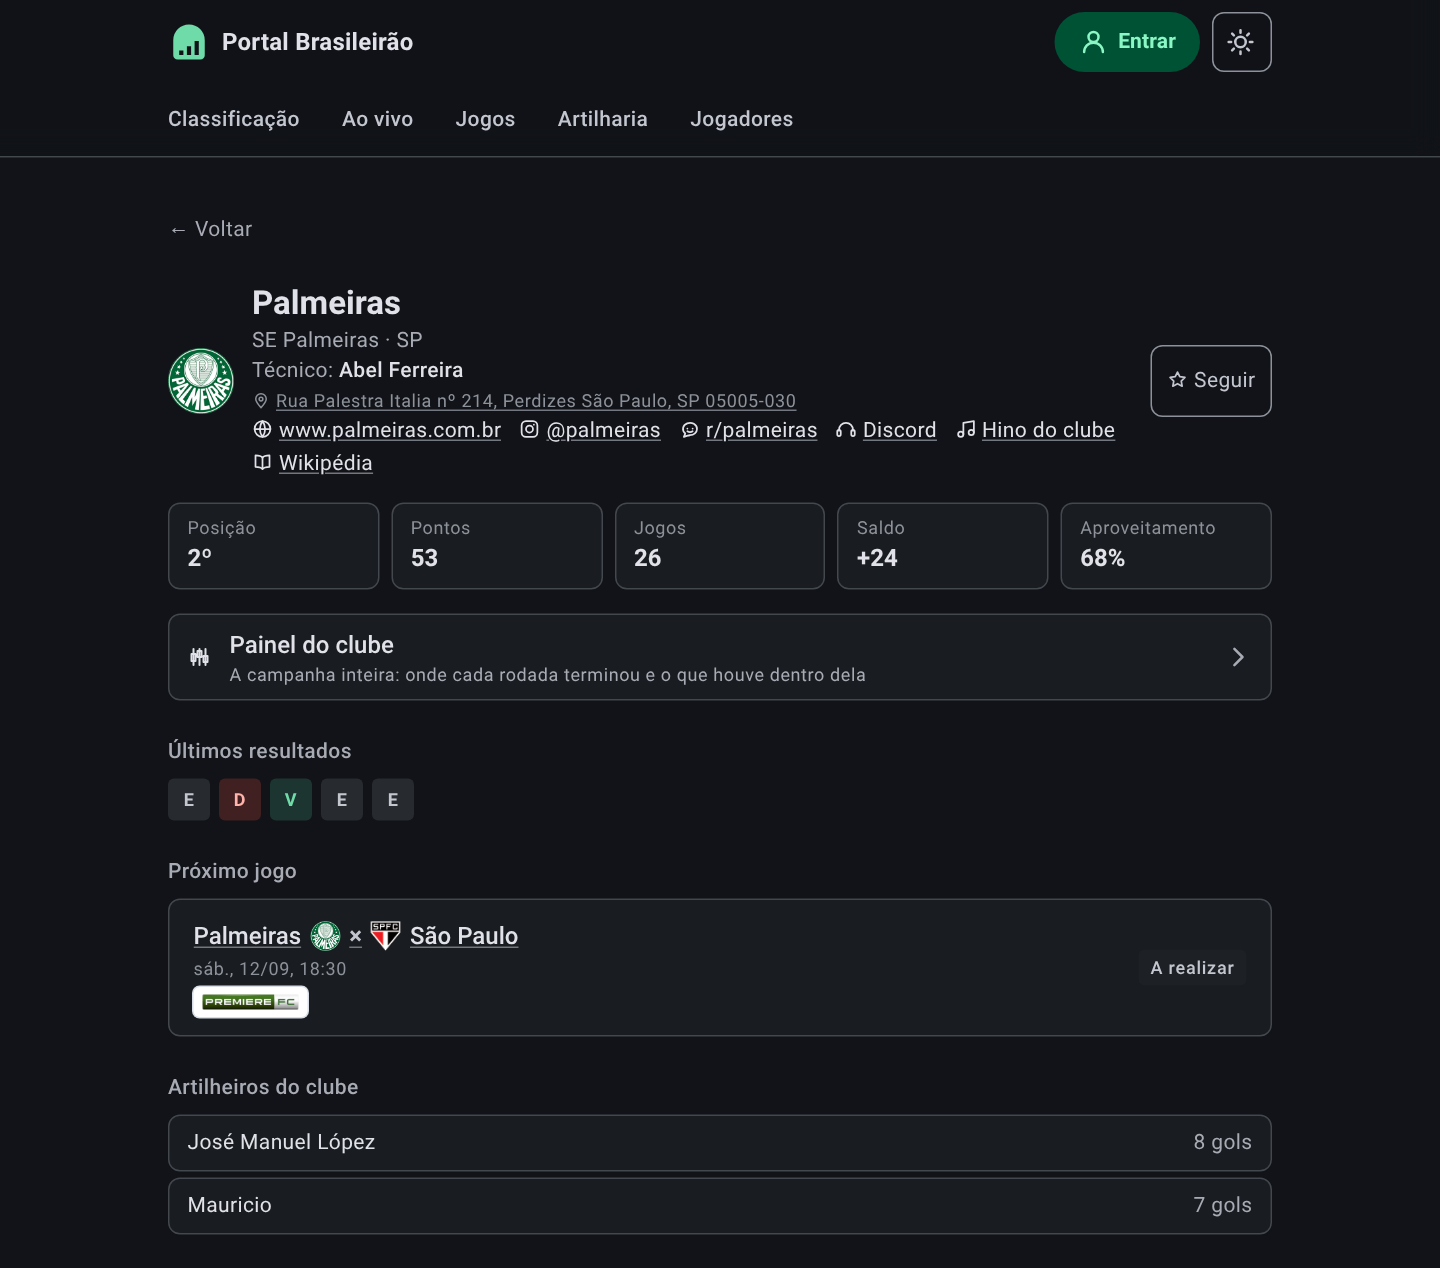
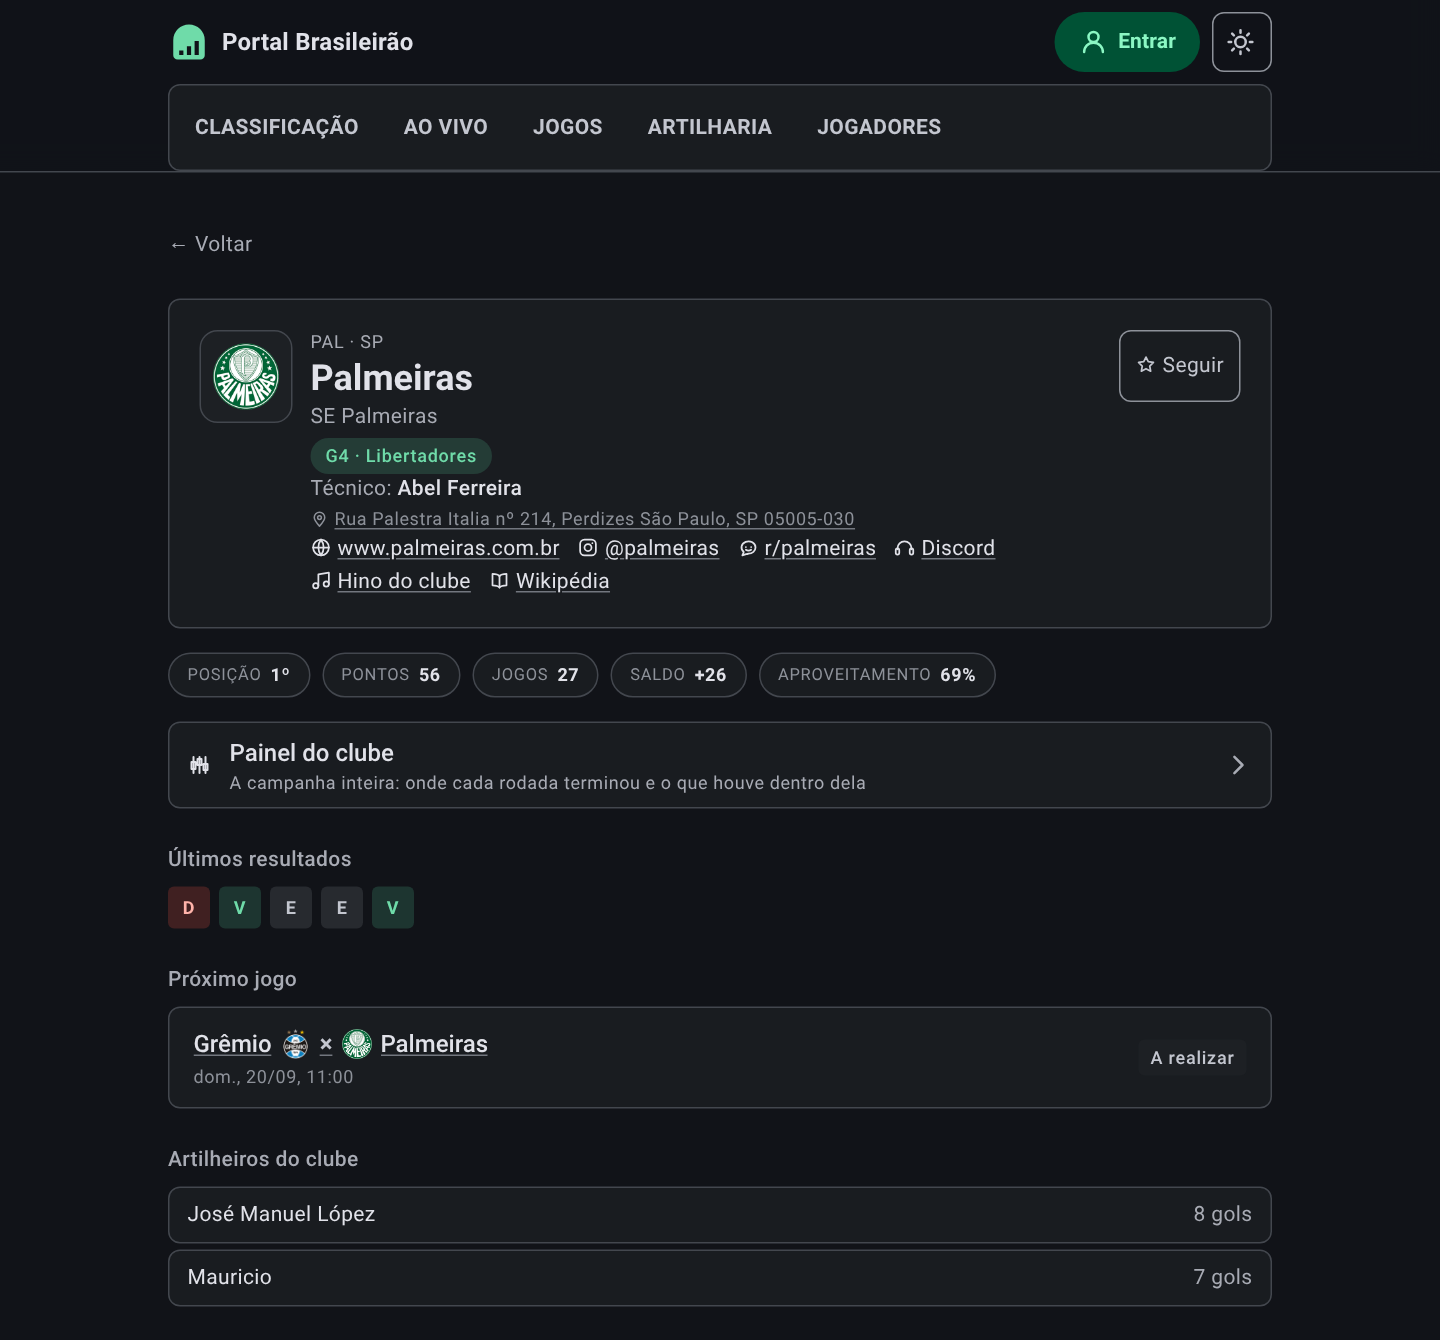
Re-shoot the two club screenshots #591 owed
clube-palmeiras-{light,dark} re-shot from production at 391e6e3, and
their README captions rewritten against the new frame: the crest sits
in a bordered tile inside a card, a caps "PAL · SP" line precedes the
name, a G4 · Libertadores pill follows the técnico line, and the five
season figures are pills below the card instead of a tile grid. The
crop grew 72px (845 -> 893 CSS px) from the taller card, and nothing
new crossed into the frame — it still ends at Artilheiros, with
Vídeos do clube, Acontecimentos and Jogos disputados below it, same
as before.

Also fixes a real capture failure hit along the way: settle() waited
for every <img> on the page to be `complete`, including ones far below
a cropped route's fixed viewport. Chromium's near-viewport prefetch
margin for loading="lazy" is computed from perceived connection speed,
which localhost and production answer differently — against production
four images ~4200px down (this club's last Jogos disputados row) never
loaded and the wait timed out at 30s every time, reproduced three runs
in a row. A local server at the pre-#591 header, at a near-identical
page height, loaded all 108 images with no scroll at all — so this is
a property of the network, not of the change. settle() now walks the
page once before checking completeness, which costs nothing where the
margin already covers the page and is the only fix that reaches the
pages it does not.

Deliberately does NOT bump docs/screenshots/CAPTURED (still bf5919b,
[…]

diff --git a/scripts/screenshot.ts b/scripts/screenshot.ts
@@ -455,6 +455,33 @@ const settle = async (page: Page) => {
       });
   }
 
+  /**
+   * Walk the page once, so a lazy `<img>` far below the crop has actually been
+   * asked to load before the wait below checks for it.
+   *
+   * A cropped route is photographed at a fixed viewport — never scrolled — so
+   * a lazy image's only chance to load is Chromium's own near-viewport margin,
+   * and that margin is not a page property: it is computed from the browser's
+   * *perceived connection speed*, which localhost and a real network answer
+   * differently. Measured on `/clube/palmeiras` (a leader's Jogos disputados
+   * runs to 27 rows): against `http://127.0.0.1` every one of 108 images
+   * completed with no scroll at all; against production, four images roughly
+   * 4200px down — two crests and two broadcaster marks in the season's last
+   * row — sat `complete: false` for 20 extra seconds and never resolved. Same
+   * page, same near-identical height (4379px against 4461px), two different
+   * verdicts, on a network property the script does not control and cannot
+   * read in advance. Scrolling costs nothing on the pages the margin already
+   * covers and is the only thing that reaches the pages it does not.
+   */
+  await page.evaluate(async () => {
+    const step = Math.max(1, window.innerHeight - 100);
+    for (let y = 0; y <= document.body.scrollHeight; y += step) {
+      window.scrollTo(0, y);
+      await new Promise((resolve) => requestAnimationFrame(resolve));
+    }
+    window.scrollTo(0, 0);
+  });
+
   // Every image actually decoded, rather than a fixed wait and a hope. Crests
   // and broadcaster marks are lazy, so this is the difference between a shot
   // with badges and a shot with holes.

diff --git a/README.md b/README.md
@@ -45,9 +45,9 @@ refetches on its own. There is deliberately no match minute: the provider report
 and a score and never an elapsed clock, so the page says **bola rolando** rather than
 guessing a number.*
 
-![Página do clube Palmeiras no tema claro: escudo, o técnico Abel Ferreira, o endereço da sede — com um alfinete, que abre o endereço no mapa —, site oficial, perfil no Instagram, o subreddit r/palmeiras, o Discord da torcida, hino do clube e artigo na Wikipédia; à direita, o botão Seguir, que marca o clube como o time do leitor; os números da temporada (2º lugar, 53 pontos, 26 jogos, saldo +24 e 68% de aproveitamento); logo abaixo, uma faixa Painel do clube, “A campanha inteira: onde cada rodada terminou e o que houve dentro dela”, que leva a essa página — a própria campanha não é desenhada aqui, mudou-se para o painel; os últimos cinco resultados, o próximo jogo — Palmeiras × São Paulo, com os dois escudos encostados ao × entre os nomes, sábado 12/09 às 18:30, marcado como A realizar e com a marca do Premiere —, e os artilheiros do clube, José Manuel López com 8 gols e Mauricio com 7, onde o recorte acaba. Os Vídeos do clube — cada vídeo na largura da coluna, do tamanho dos Melhores momentos da página de partida —, os Acontecimentos — o que houve fora de campo, com a paralisação para a Copa do Mundo — e os Jogos disputados ficam abaixo do recorte](docs/screenshots/clube-palmeiras-light.png)
+![Página do clube Palmeiras no tema claro: um cartão reúne o escudo numa moldura, a legenda “PAL · SP” em versalete, o nome Palmeiras em destaque, o nome “SE Palmeiras” logo abaixo, uma etiqueta verde “G4 · Libertadores”, o técnico Abel Ferreira, o endereço da sede — com um alfinete, que abre o endereço no mapa —, e a fila de links: site oficial, perfil no Instagram, o subreddit r/palmeiras, o Discord da torcida, hino do clube e artigo na Wikipédia; à direita do cartão, o botão Seguir, que marca o clube como o time do leitor. Abaixo do cartão, os números da temporada em cápsulas soltas — Posição 1º, Pontos 56, Jogos 27, Saldo +26, Aproveitamento 69% —; logo abaixo, uma faixa Painel do clube, “A campanha inteira: onde cada rodada terminou e o que houve dentro dela”, que leva a essa página — a própria campanha não é desenhada aqui, mudou-se para o painel; os últimos cinco resultados, o próximo jogo — Grêmio × Palmeiras, com os dois escudos encostados ao × entre os nomes, domingo 20/09 às 11:00, marcado como A realizar e sem marca de emissora nesta partida —, e os artilheiros do clube, José Manuel López com 8 gols e Mauricio com 7, onde o recorte acaba. Os Vídeos do clube — cada vídeo na largura da coluna, do tamanho dos Melhores momentos da página de partida —, os Acontecimentos — o que houve fora de campo, com a paralisação para a Copa do Mundo — e os Jogos disputados ficam abaixo do recorte](docs/screenshots/clube-palmeiras-light.png)
 
-![A mesma página do clube Palmeiras no tema escuro: os mesmos escudo, técnico, endereço da sede com o seu alfinete, a mesma fila de links, o mesmo botão Seguir e os mesmos números da temporada; a mesma faixa do Painel do clube, igualmente sem gráfico da campanha acima dela; os mesmos últimos resultados, o mesmo próximo jogo e os mesmos artilheiros, com o recorte acabando no mesmo lugar, acima dos Vídeos do clube; o mesmo subreddit e o mesmo Discord na fila de links](docs/screenshots/clube-palmeiras-dark.png)
+![A mesma página do clube Palmeiras no tema escuro: o mesmo cartão com o escudo emoldurado, a legenda “PAL · SP”, o nome, a etiqueta “G4 · Libertadores”, o técnico, o endereço da sede com o seu alfinete, a mesma fila de links e o mesmo botão Seguir; as mesmas cápsulas de Posição, Pontos, Jogos, Saldo e Aproveitamento abaixo do cartão; a mesma faixa do Painel do clube, igualmente sem gráfico da campanha acima dela; os mesmos últimos resultados, o mesmo próximo jogo e os mesmos artilheiros, com o recorte acabando no mesmo lugar, acima dos Vídeos do clube; o mesmo subreddit e o mesmo Discord na fila de links](docs/screenshots/clube-palmeiras-dark.png)
 
 ![Página de jogos no tema claro: o seletor de rodada na 27ª — a rodada mais antiga que ainda tem jogo por disputar, e por isso a que a página abre — com a rodada recém-começada no enquadramento. Dez jogos, o primeiro já com placar e os outros nove com a etiqueta A realizar: Coritiba 3 × 3 Athletico-PR às 21:00 de sexta 11/09, marcado Encerrado; no sábado 12/09, Atlético-MG × Fluminense e Grêmio × Vasco da Gama às 16:00, Chapecoense × Internacional às 17:00, Palmeiras × São Paulo às 18:30, Botafogo × Bragantino às 20:30 e Santos × Cruzeiro às 21:00; no domingo 13/09, Mirassol × Vitória às 16:00 e Flamengo × Corinthians às 17:30; e Bahia × Clube do Remo às 20:00 de segunda 14/09, com que o enquadramento acaba. Cada linha traz no título o nome de um clube, os dois escudos encostados ao × no meio e o nome do outro, a data e o horário, e as marcas das emissoras onde já há transmissão anunciada — os três últimos jogos ainda não têm nenhuma](docs/screenshots/jogos-light.png)
 
